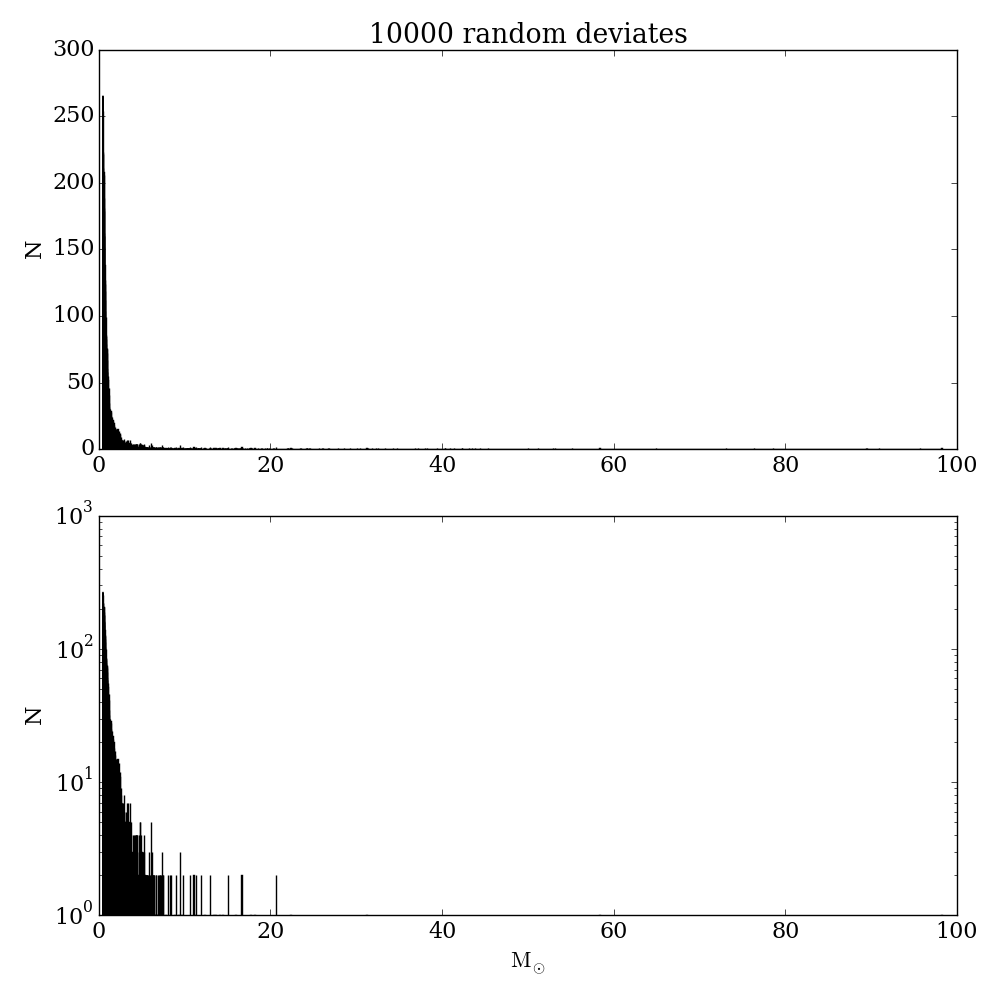
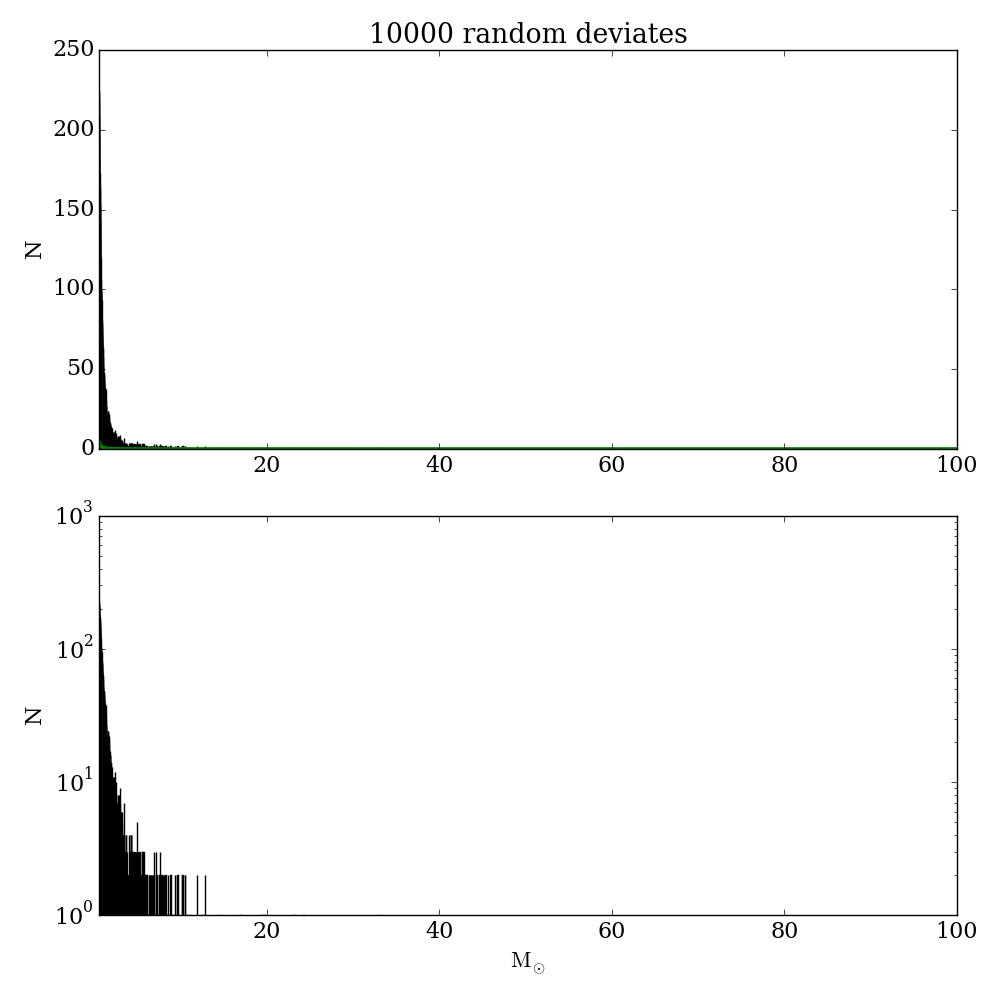
updating q29

diff --git a/isochrone/isochrones.py b/isochrone/isochrones.py
@@ -230,14 +230,22 @@ def imf_random_deviates(npts=1000,plotfile=None):
     for i in range(npts):
         m[i]=(((tmp*rand[i])/const)+(0.5**tmp))**(1.0/tmp)
 
+    x=np.arange(minM,maxM,1./npts)
+
     fig, (ax0,ax1) = plt.subplots(nrows=2,figsize=(10, 10))
     p0=ax0.hist(m,bins=npts)
+    ax0.plot(x,x**(-2.35),linewidth=3)
     ax0.set_ylabel('N')
+    ax0.set_xlim([minM,maxM])
 #    ax0.set_xticks([])
     ax0.set_title(str(npts)+' random deviates')
-    p0=ax1.hist(m,bins=npts,log=True)
+
+    p1=ax1.hist(m,bins=npts,log=True)
+#    ax1.plot(x,np.log10(x**(-2.35)),linewidth=3)
     ax1.set_ylabel('N')
     ax1.set_xlabel(r'$\rm M_{\odot}$')
+    ax1.set_xlim([minM,maxM])
+
     matplotlib.rcParams.update({'font.size': 16, 'font.family':'serif'})
     plt.tight_layout() 
 
